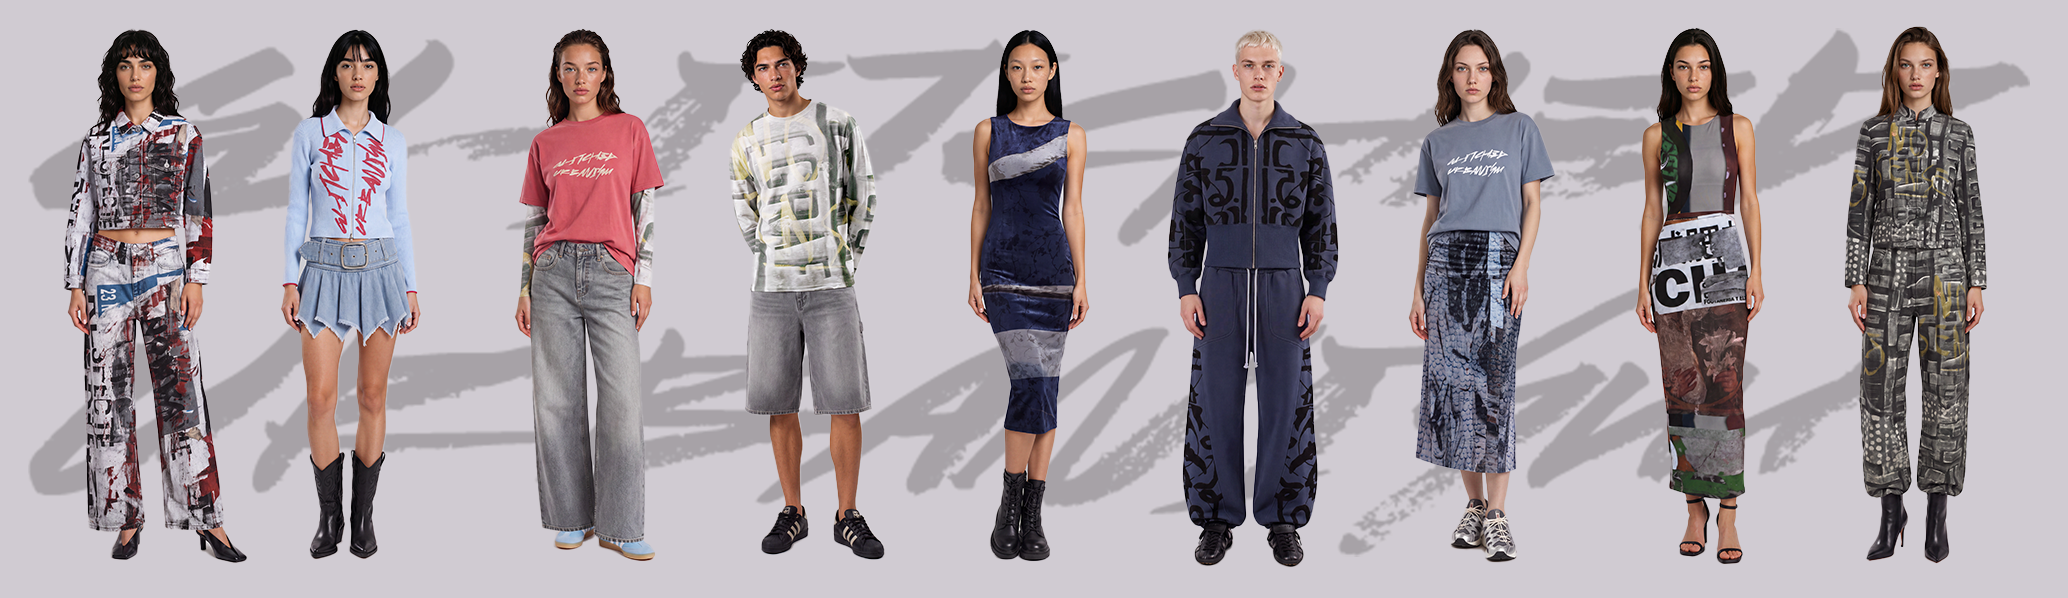
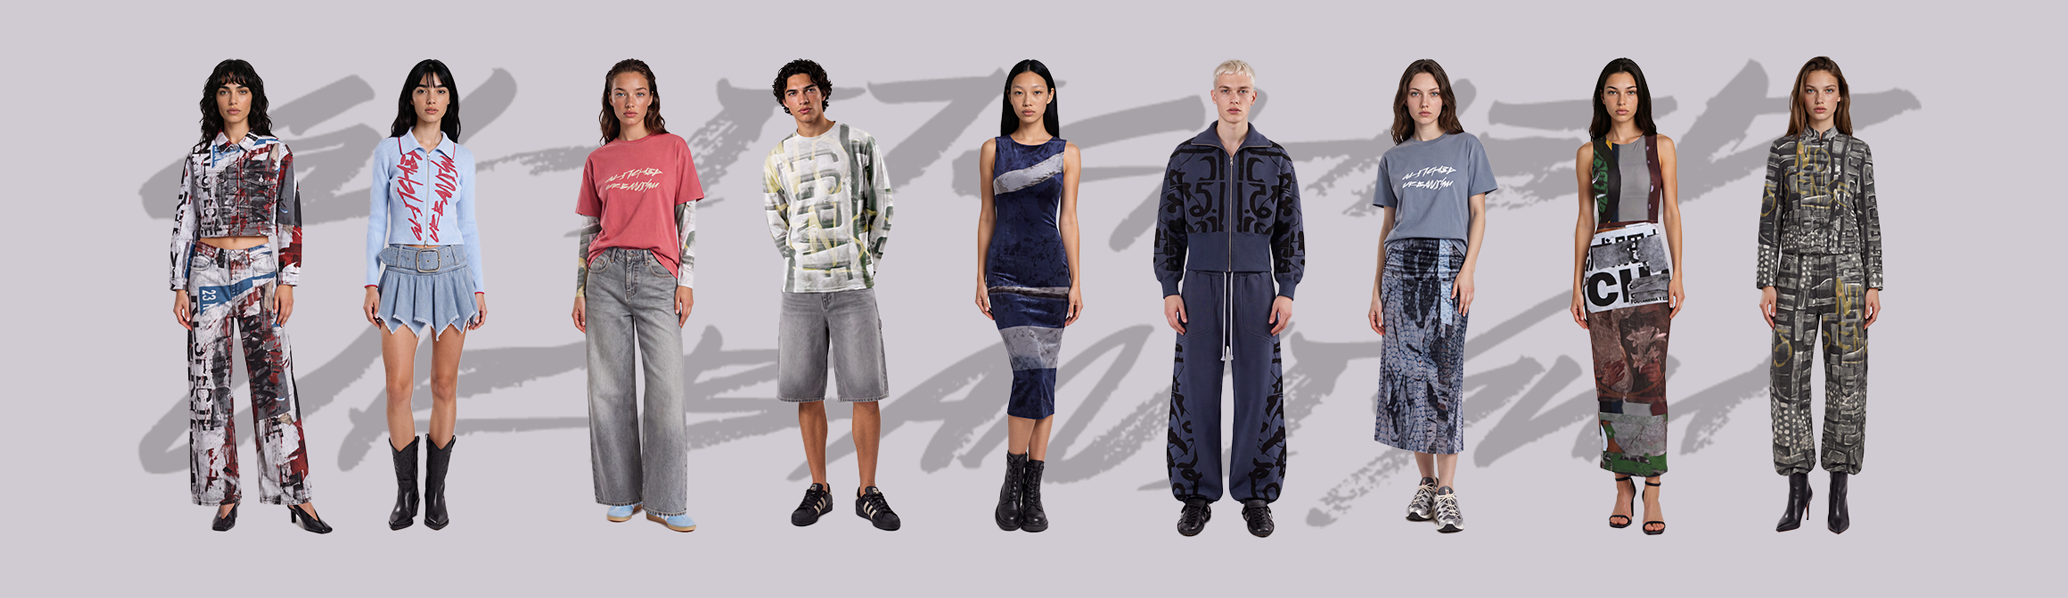
Update GU project imageand classname pic

diff --git a/src/App.tsx b/src/App.tsx
@@ -374,7 +374,7 @@ export default function App() {
               <img
                 src="/images/Foto.jpg"
                 alt="Sol Malisani, fashion designer"
-                className="w-full object-cover"
+                // className="w-full object-cover"
                 style={{ height: "420px", filter: "grayscale(20%)" }}
               />
             </div>
@@ -520,7 +520,7 @@ export default function App() {
                   className="text-xs tracking-widest uppercase mb-4"
                   style={{ color: "var(--muted-foreground)" }}
                 >
-                  Elsewhere
+                  Socials
                 </p>
                 <div className="flex gap-6">
                   {[
